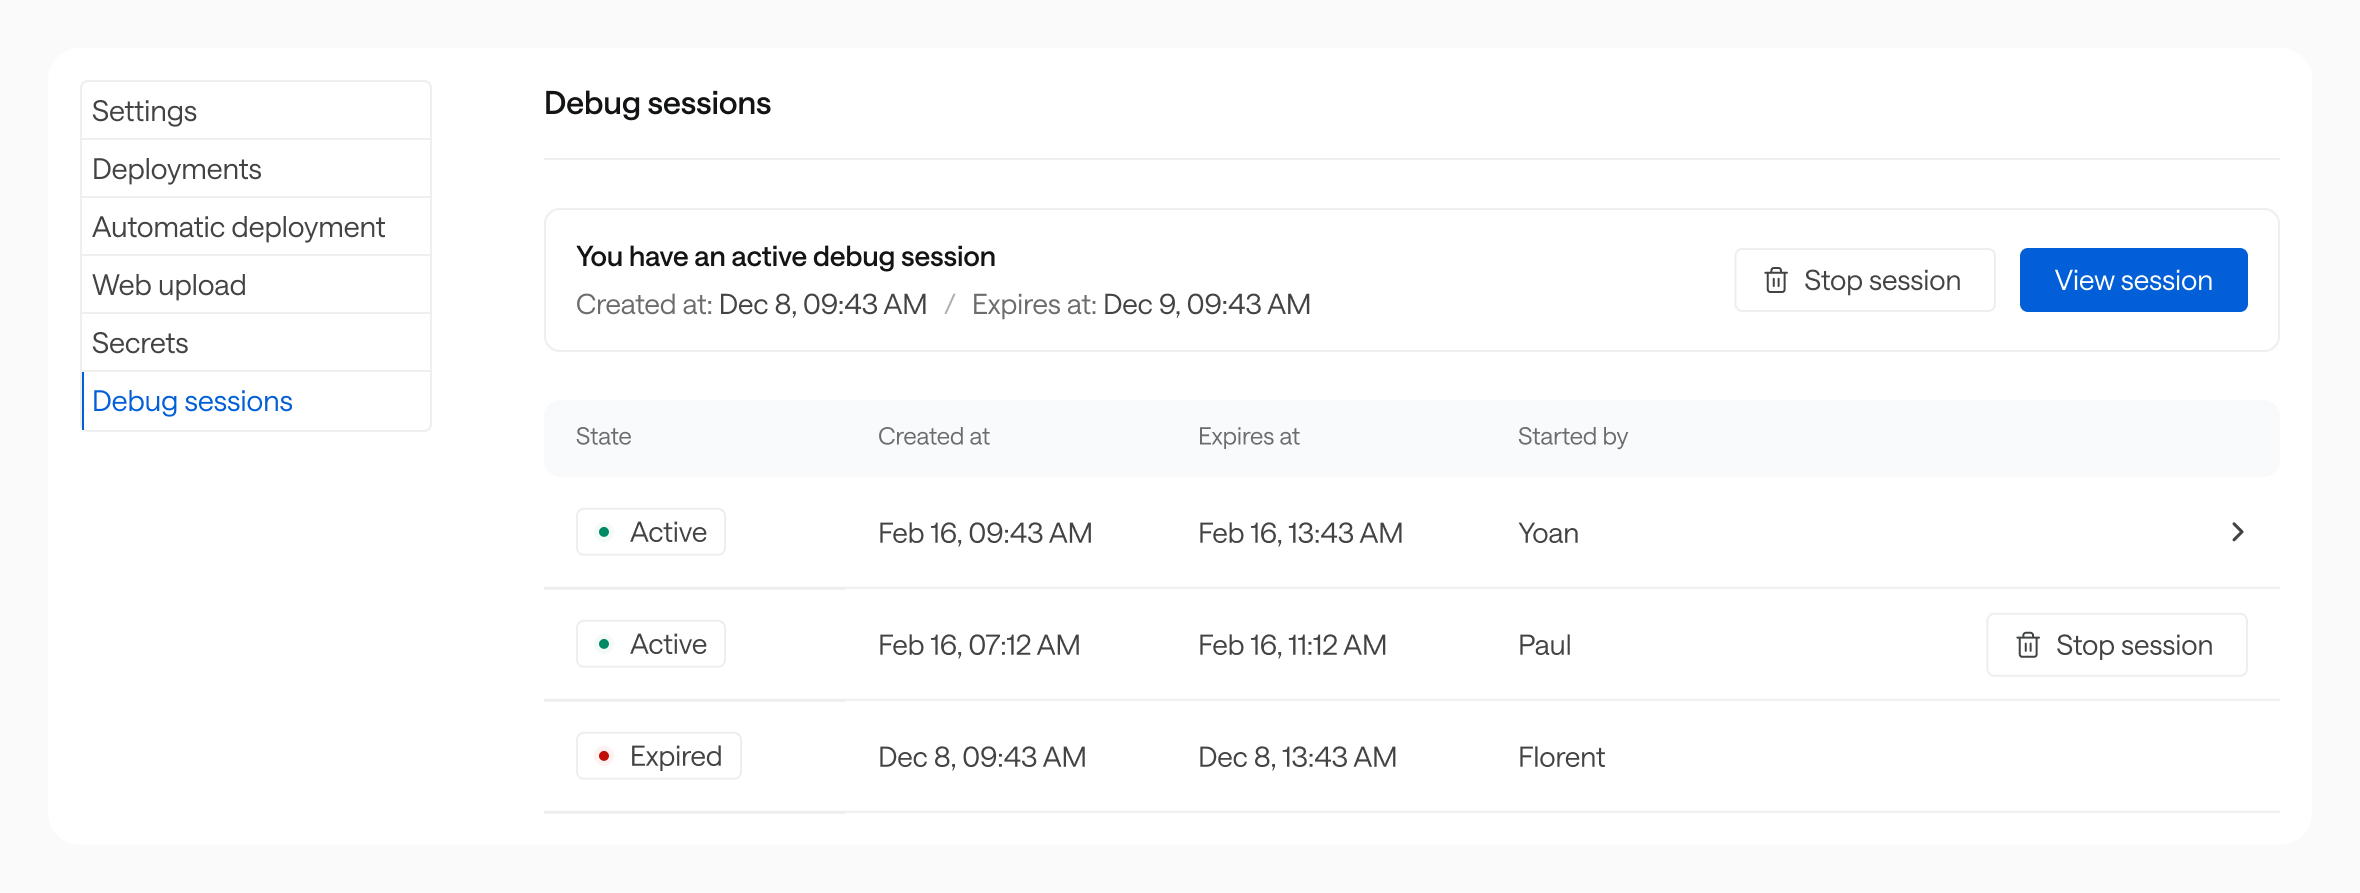
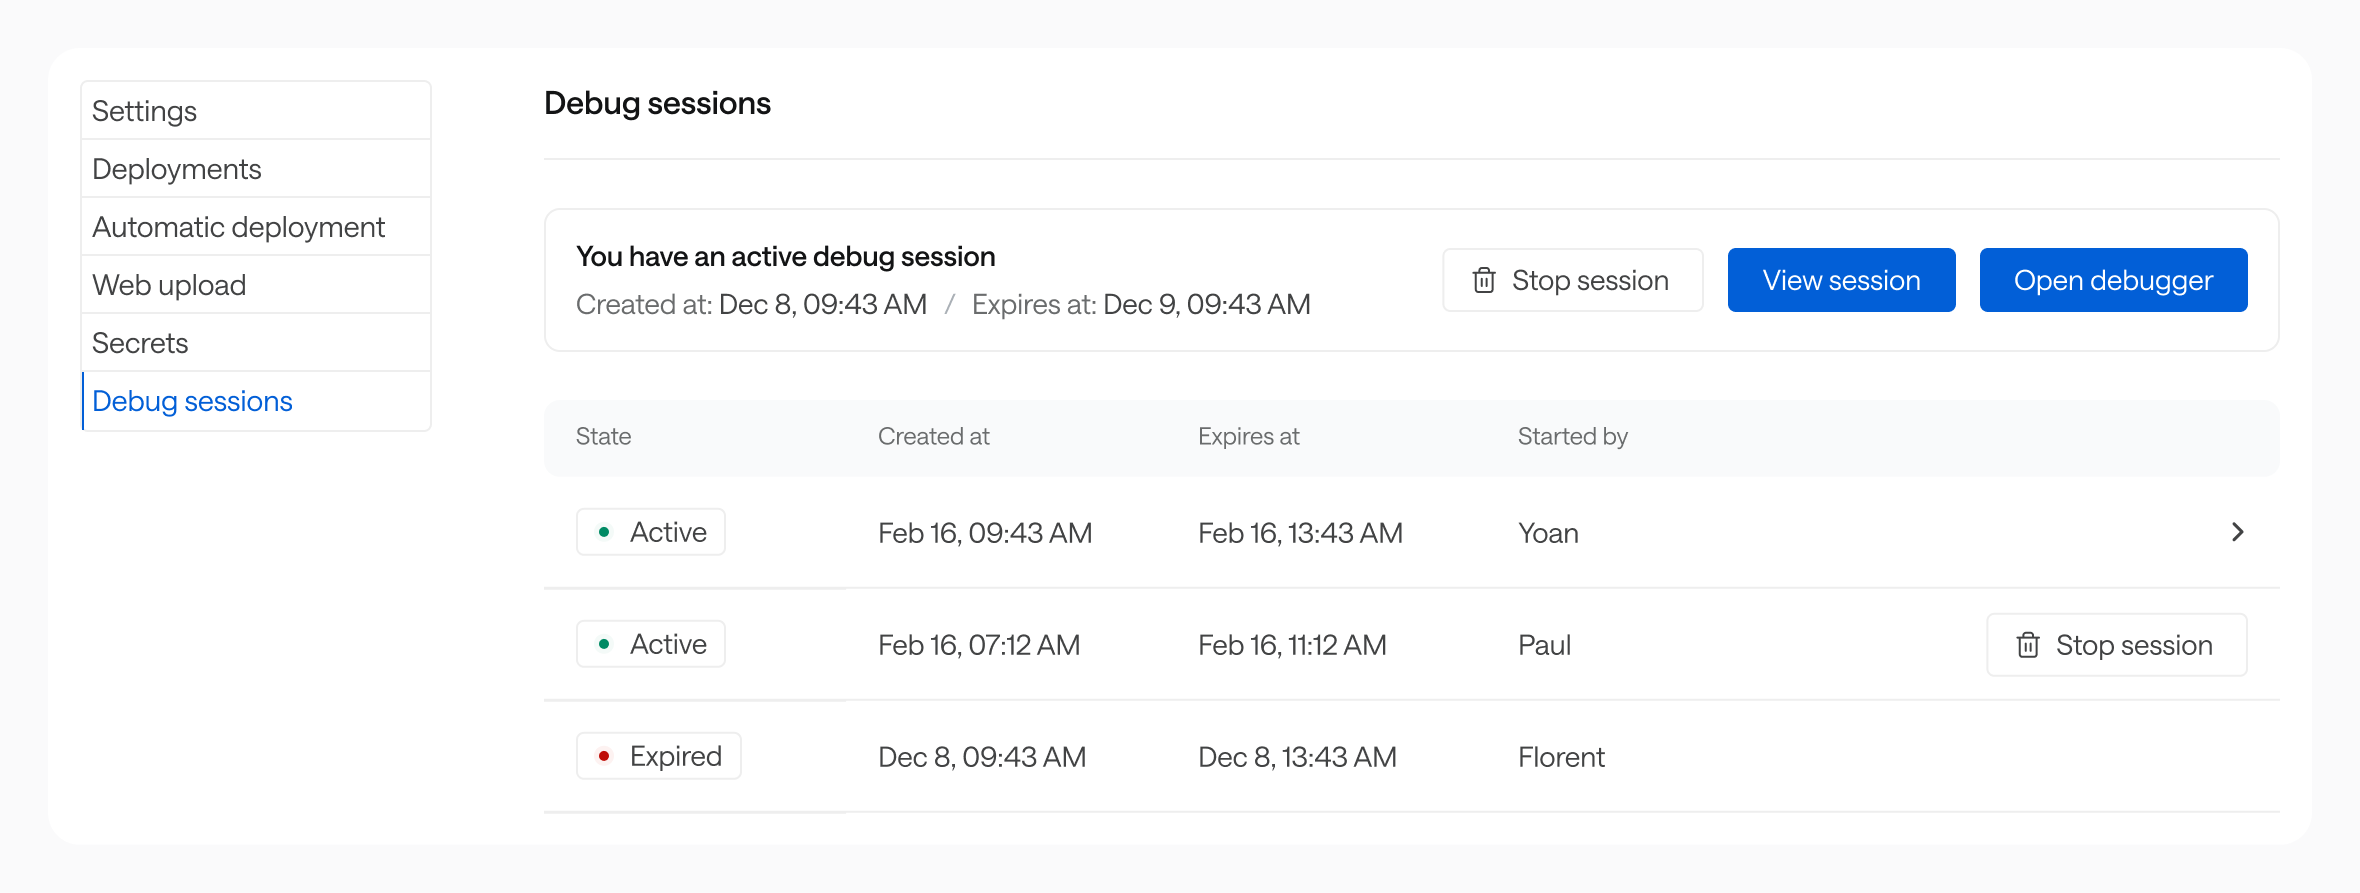
help center: add live debugger mention

Changed region(s): [[0.6186, 0.2721, 0.9589, 0.3628]]

diff --git a/src/_help/mcp-servers/debug-sessions.md b/src/_help/mcp-servers/debug-sessions.md
@@ -7,7 +7,27 @@ title: Debug sessions
 
 A debug session is a temporary authorization to access execution traces on the [data plane](/help/mcp-servers/#data-plane). It lets you see which API calls your MCP server actually executes, what responses it receives, and how it produces its final output. Sessions last 4 hours max and only one can be active at a time.
 
-## Start a debug session
+## Live debugger in the dashboard 
+
+The live debugger offers you a visual way to analyze logs returned during the debug session. It returns the same level of information as the [debug endpoint](/help/mcp-servers/debug-sessions/#debug-endpoint). 
+
+![MCP server debug session live debugger](/docs/images/help/mcp-servers/mcp-servers-live-debugger.png)
+
+### Access the live debugger 
+
+1. Create a new debug session in your MCP server settings.
+2. Click on "Open debugger".
+3. Interact with the MCP server using your favorite [AI tool](/help/mcp-servers/use-mcp-server/).
+4. The life debugger is updated dynamically as the workflows are executed via the MCP server.
+
+### Read the live debugger
+
+For each tool called by the MCP server, the live debugger returns:
+- **Flow-level information** with `flow.run`: what the workflow received (`inputs`) and what it returned (`outputs`).
+- **Steps** with `step.run`: each HTTP request the data plane executed, with the full request (method, URL, query, body) and the API response (status, body).
+- **Actions** with `action.select`: flow control decisions between steps. If your workflow uses conditions (retry, goto, end), this is where they are evaluated.
+
+## Debug endpoint
 
 Go to your MCP server settings and create a new session. You will get a unique token to authenticate your requests.
 
@@ -45,18 +65,18 @@ $ curl \
 > Debug sessions run on the production environment. Responses may include sensitive data. Handle them with care.
 {: .warning}
 
-## Read the response
+### Read the response
 
 The debug endpoint returns a JSON object with two keys:
 
 - `outputs`: the final values returned to the AI agent after running the workflow.
 - `trace`: the full execution trace, showing every step the data plane ran.
 
-### Quick check
+#### Quick check
 
 Start by looking at `outputs`. If the values are wrong or missing, dive into the `trace` to find where things went wrong.
 
-### Understand the trace
+#### Understand the trace
 
 The `trace` object contains:
 
@@ -64,7 +84,7 @@ The `trace` object contains:
 - **Steps** (`step.run`): each HTTP request the data plane executed, with the full request (method, URL, query, body) and the API response (status, body).
 - **Actions** (`action.run`): flow control decisions between steps. If your workflow uses conditions (retry, goto, end), this is where they are evaluated.
 
-### Example
+#### Example
 
 Here is a shortened trace from our Weather MCP server. The workflow resolves a city name to coordinates, then fetches the current weather.
 
